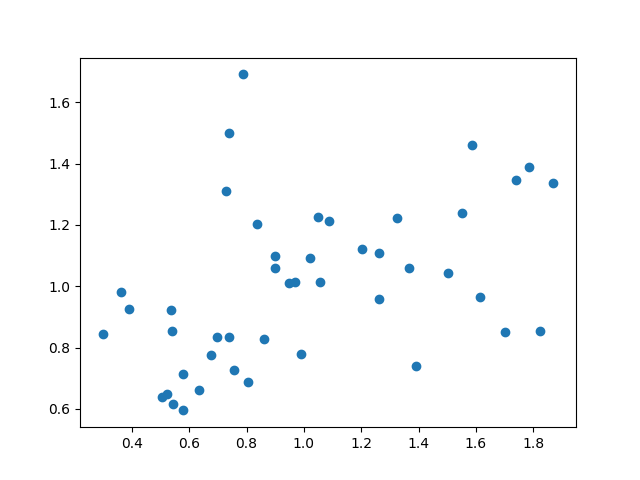
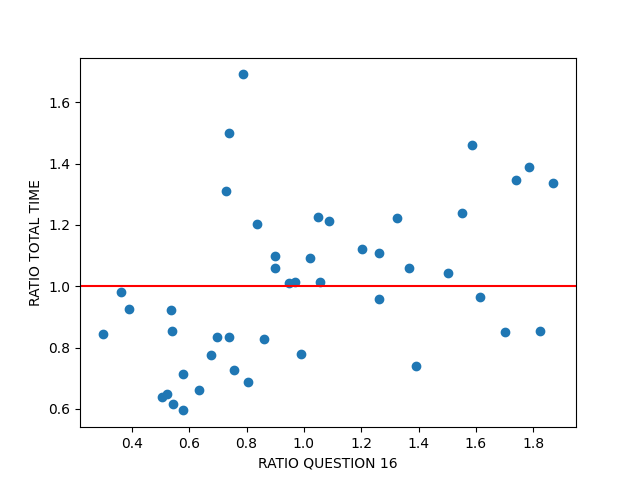
refactor: add required test

Changed region(s): [[0.125, 0.5938, 0.9062, 0.625], [0.4062, 0.9375, 0.625, 1.0], [0.0312, 0.375, 0.0625, 0.6562]]

diff --git a/test.py b/test.py
@@ -82,5 +82,10 @@ def get_ratio_df(n_users):
 df_ratio = get_ratio_df(n_users)
 df_ratio.to_csv("datasets/results/ratio_df.csv", index=False)
 
+fig, ax = plt.subplots()
+ax.set_xlabel('RATIO QUESTION 16')
+ax.set_ylabel('RATIO TOTAL TIME')
 plt.scatter(df_ratio['RATIO_16'], df_ratio['RATIO_TOTAL'])
+plt.axhline(y=1, color='r', linestyle='-')
 plt.savefig('test.png')
+plt.close()
